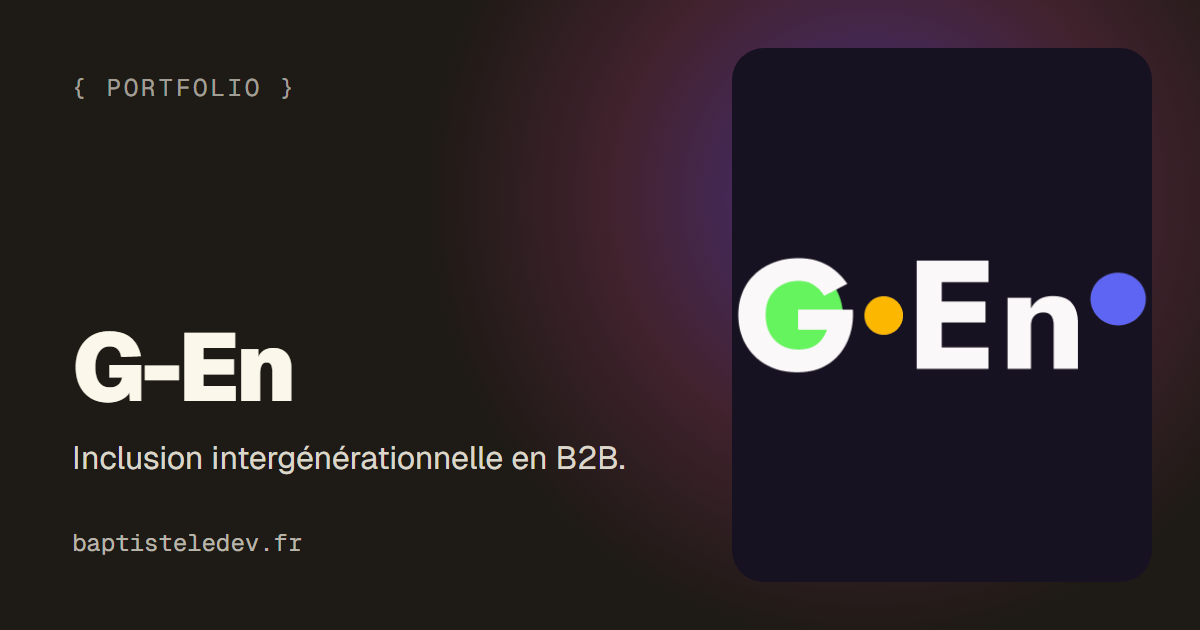
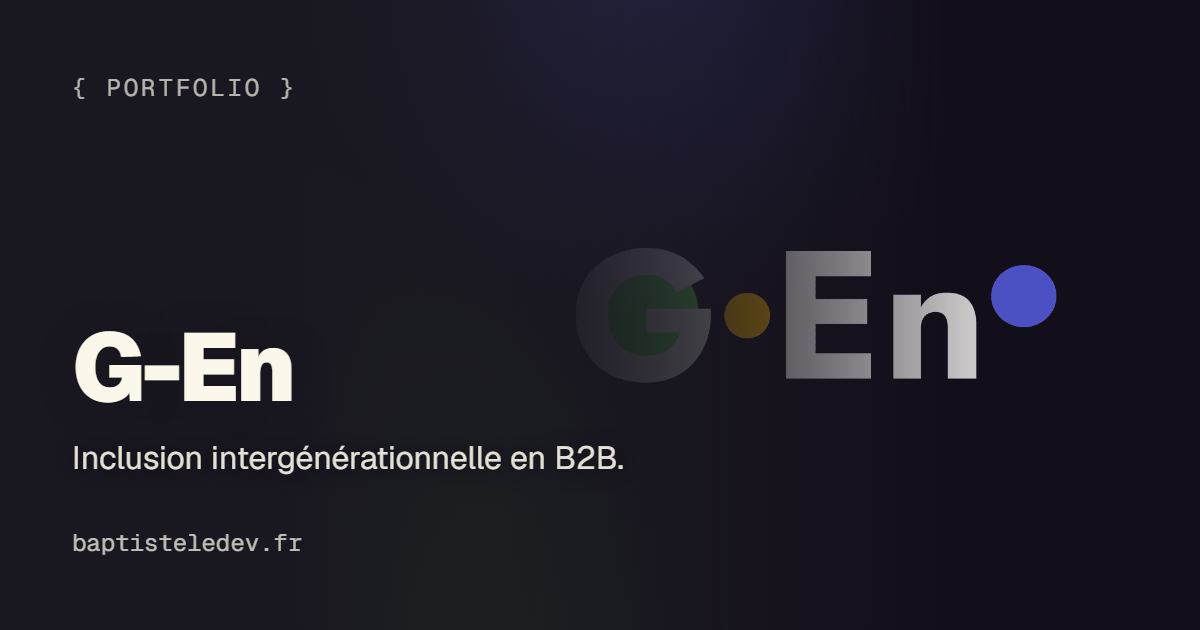
feat(og): cover as faded right background, project colors
Cover fills the right side full height, masked and scrimmed into the card
background. Glow and base use the project colors; base takes the darkest
color (lib/color.ts), shared with the page hero gradient.

Changed region(s): [[0.0617, 0.0, 1.0, 0.8444], [0.0617, 0.8444, 0.2467, 0.8746], [0.0617, 0.1206, 0.2158, 0.1508]]

diff --git a/frontend/src/components/effects/animated-gradient.tsx b/frontend/src/components/effects/animated-gradient.tsx
@@ -1,4 +1,5 @@
 import { cn } from "@/lib/cn";
+import { darkest } from "@/lib/color";
 
 type Palette = "hero" | "chaud" | "froid" | "violet";
 
@@ -58,7 +59,7 @@ const palettes: Record<Palette, { base: string; blobs: Blob[] }> = {
 // its contrast even with light brand colors.
 function fromColors(colors: string[]) {
   return {
-    base: `color-mix(in oklch, ${colors[0]} 30%, var(--color-bg))`,
+    base: `color-mix(in oklch, ${darkest(colors)} 30%, var(--color-bg))`,
     blobs: palettes.hero.blobs.map((b, i) => ({ ...b, color: colors[i % colors.length] })),
   };
 }

diff --git a/frontend/src/data/pages.ts b/frontend/src/data/pages.ts
@@ -10,6 +10,7 @@ export interface PageMeta {
   /** Second line on the OG card. */
   subtitle: string;
   cover?: string;
+  colors?: string[];
 }
 
 export const pages: PageMeta[] = [
@@ -38,6 +39,7 @@ export const pages: PageMeta[] = [
     description: `${p.title} : ${p.tagline.replace(/\.$/, "")}. Projet de Baptiste Dechamp, développeur.`,
     subtitle: p.tagline,
     cover: p.thumbnail.kind === "image" ? p.thumbnail.src : undefined,
+    colors: p.colors,
   })),
 ];
 

diff --git a/frontend/src/lib/color.ts b/frontend/src/lib/color.ts
@@ -1,0 +1,8 @@
+// Relative luminance of a #rrggbb color, enough to rank a palette.
+const luminance = (hex: string) => {
+  const n = parseInt(hex.slice(1), 16);
+  return 0.2126 * (n >> 16) + 0.7152 * ((n >> 8) & 255) + 0.0722 * (n & 255);
+};
+
+export const darkest = (colors: string[]) =>
+  colors.reduce((a, b) => (luminance(b) < luminance(a) ? b : a));

diff --git a/frontend/src/__tests__/lib/color.test.ts b/frontend/src/__tests__/lib/color.test.ts
@@ -1,0 +1,8 @@
+import { darkest } from "@/lib/color";
+
+describe("darkest", () => {
+  it("picks the lowest luminance color", () => {
+    expect(darkest(["#ffffff", "#ffda43", "#1497ab"])).toBe("#1497ab");
+    expect(darkest(["#090908", "#7bd0ff"])).toBe("#090908");
+  });
+});
